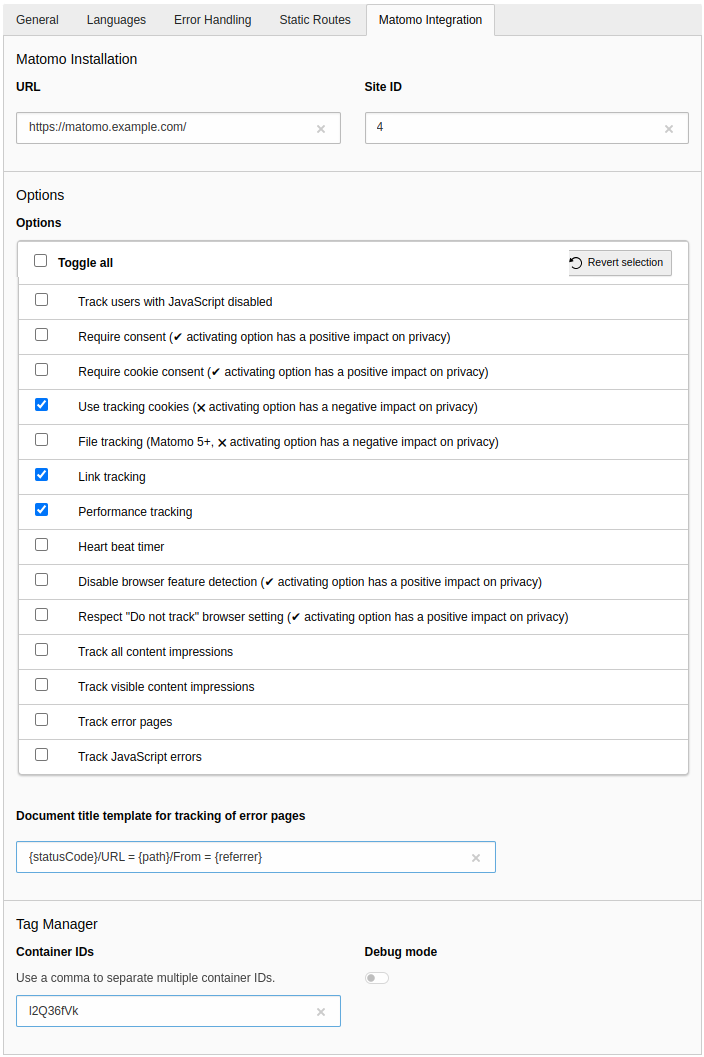
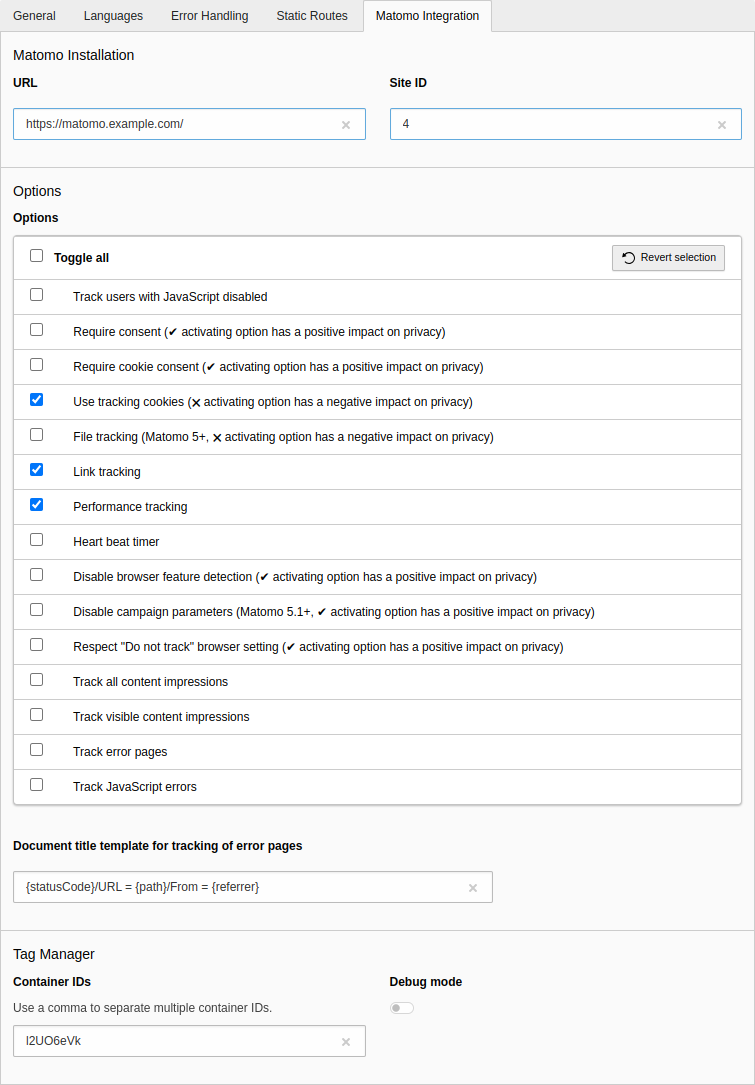
feat: add option for disabling campaign parameters
resolves: #31

diff --git a/Tests/Unit/EventListener/DisableCampaignParametersTest.php b/Tests/Unit/EventListener/DisableCampaignParametersTest.php
@@ -1,0 +1,67 @@
+<?php
+
+declare(strict_types=1);
+
+/*
+ * This file is part of the "matomo_integration" extension for TYPO3 CMS.
+ *
+ * For the full copyright and license information, please read the
+ * LICENSE.txt file that was distributed with this source code.
+ */
+
+namespace Brotkrueml\MatomoIntegration\Tests\Unit\EventListener;
+
+use Brotkrueml\MatomoIntegration\Entity\Configuration;
+use Brotkrueml\MatomoIntegration\Event\BeforeTrackPageViewEvent;
+use Brotkrueml\MatomoIntegration\EventListener\DisableBrowserFeatureDetection;
+use PHPUnit\Framework\Attributes\Test;
+use PHPUnit\Framework\MockObject\Stub;
+use PHPUnit\Framework\TestCase;
+use Psr\Http\Message\ServerRequestInterface;
+
+final class DisableCampaignParametersTest extends TestCase
+{
+    /**
+     * @var Stub&ServerRequestInterface
+     */
+    private Stub $requestStub;
+    private DisableBrowserFeatureDetection $subject;
+
+    protected function setUp(): void
+    {
+        $this->requestStub = $this->createStub(ServerRequestInterface::class);
+        $this->subject = new DisableBrowserFeatureDetection();
+    }
+
+    #[Test]
+    public function disabledOption(): void
+    {
+        $configuration = Configuration::createFromSiteConfiguration([
+            'matomoIntegrationUrl' => 'https://www.example.net/',
+            'matomoIntegrationSiteId' => 123,
+        ]);
+
+        $event = new BeforeTrackPageViewEvent($configuration, $this->requestStub);
+        $this->subject->__invoke($event);
+
+        $actual = $event->getMatomoMethodCalls();
+        self::assertCount(0, $actual);
+    }
+
+    #[Test]
+    public function enabledOption(): void
+    {
+        $configuration = Configuration::createFromSiteConfiguration([
+            'matomoIntegrationUrl' => 'https://www.example.net/',
+            'matomoIntegrationSiteId' => 123,
+            'matomoIntegrationOptions' => 'disableBrowserFeatureDetection',
+        ]);
+
+        $event = new BeforeTrackPageViewEvent($configuration, $this->requestStub);
+        $this->subject->__invoke($event);
+
+        $actual = $event->getMatomoMethodCalls();
+        self::assertCount(1, $actual);
+        self::assertSame('_paq.push(["disableBrowserFeatureDetection"]);', (string)$actual[0]);
+    }
+}

diff --git a/Tests/Unit/Entity/ConfigurationTest.php b/Tests/Unit/Entity/ConfigurationTest.php
@@ -29,6 +29,7 @@ final class ConfigurationTest extends TestCase
         self::assertFalse($subject->requireCookieConsent);
         self::assertFalse($subject->cookieTracking);
         self::assertFalse($subject->disableBrowserFeatureDetection);
+        self::assertFalse($subject->disableCampaignParameters);
         self::assertSame('', $subject->errorPagesTemplate);
         self::assertFalse($subject->fileTracking);
         self::assertFalse($subject->heartBeatTimer);
@@ -121,6 +122,16 @@ final class ConfigurationTest extends TestCase
         ]);
 
         self::assertTrue($subject->disableBrowserFeatureDetection);
+    }
+
+    #[Test]
+    public function createFromSiteConfigurationWithDisableCampaignParametersSetsInstanceValuesCorrectly(): void
+    {
+        $subject = Configuration::createFromSiteConfiguration([
+            'matomoIntegrationOptions' => 'disableCampaignParameters',
+        ]);
+
+        self::assertTrue($subject->disableCampaignParameters);
     }
 
     #[Test]

diff --git a/Classes/EventListener/DisableCampaignParameters.php b/Classes/EventListener/DisableCampaignParameters.php
@@ -1,0 +1,27 @@
+<?php
+
+declare(strict_types=1);
+
+/*
+ * This file is part of the "matomo_integration" extension for TYPO3 CMS.
+ *
+ * For the full copyright and license information, please read the
+ * LICENSE.txt file that was distributed with this source code.
+ */
+
+namespace Brotkrueml\MatomoIntegration\EventListener;
+
+use Brotkrueml\MatomoIntegration\Event\BeforeTrackPageViewEvent;
+
+/**
+ * @internal
+ */
+final class DisableCampaignParameters
+{
+    public function __invoke(BeforeTrackPageViewEvent $event): void
+    {
+        if ($event->getConfiguration()->disableCampaignParameters) {
+            $event->addMatomoMethodCall('disableCampaignParameters');
+        }
+    }
+}

diff --git a/Configuration/SiteConfiguration/Overrides/sites.php b/Configuration/SiteConfiguration/Overrides/sites.php
@@ -65,6 +65,10 @@ $GLOBALS['SiteConfiguration']['site']['columns'] += [
                     'value' => 'disableBrowserFeatureDetection',
                 ],
                 [
+                    'label' => Brotkrueml\MatomoIntegration\Extension::LANGUAGE_PATH_SITECONF . ':disableCampaignParameters',
+                    'value' => 'disableCampaignParameters',
+                ],
+                [
                     'label' => Brotkrueml\MatomoIntegration\Extension::LANGUAGE_PATH_SITECONF . ':doNotTrack',
                     'value' => 'doNotTrack',
                 ],

diff --git a/Classes/Entity/Configuration.php b/Classes/Entity/Configuration.php
@@ -26,6 +26,7 @@ final class Configuration
     public bool $noScript = false;
     public bool $cookieTracking = false;
     public bool $disableBrowserFeatureDetection = false;
+    public bool $disableCampaignParameters = false;
     public bool $doNotTrack = false;
     public string $errorPagesTemplate = '';
     public bool $fileTracking = false;

diff --git a/Documentation/Configuration/Index.rst b/Documentation/Configuration/Index.rst
@@ -123,6 +123,18 @@ Disable browser feature detection
 
    Default: *disabled* (browser features are detected)
 
+Disable campaign parameters
+   .. versionadded:: 2.2
+
+   |shield-check| Activating this option has a **positive** impact on privacy.
+
+   By default, Matomo will send campaign parameters (mtm, utm, etc.) to the
+   tracker and record that information. Some privacy regulations may not allow
+   for this information to be collected. If this applies to you, activate this
+   method to prevent campaign parameters from being sent to the tracker.
+
+   Default: *disabled* (campaign parameters are sent)
+
 Respect "Do not track" browser setting
    This option prevents requests and cookies when people
    `don't want to be tracked`_.

diff --git a/Documentation/Changelog/Index.rst b/Documentation/Changelog/Index.rst
@@ -11,6 +11,12 @@ and this project adheres to `Semantic Versioning <https://semver.org/spec/v2.0.0
 `Unreleased <https://github.com/brotkrueml/typo3-matomo-integration/compare/v2.1.1...HEAD>`_
 ------------------------------------------------------------------------------------------------
 
+Added
+^^^^^
+
+
+* Option for disabling campaign parameters in Matomo 5.1+ (#31)
+
 `2.1.1 <https://github.com/brotkrueml/typo3-matomo-integration/compare/v2.1.0...v2.1.1>`_ - 2024-05-22
 ----------------------------------------------------------------------------------------------------------
 

diff --git a/CHANGELOG.md b/CHANGELOG.md
@@ -6,6 +6,9 @@ and this project adheres to [Semantic Versioning](https://semver.org/spec/v2.0.0
 
 ## [Unreleased]
 
+### Added
+- Option for disabling campaign parameters in Matomo 5.1+ (#31)
+
 ## [2.1.1] - 2024-05-22
 
 ### Fixed
